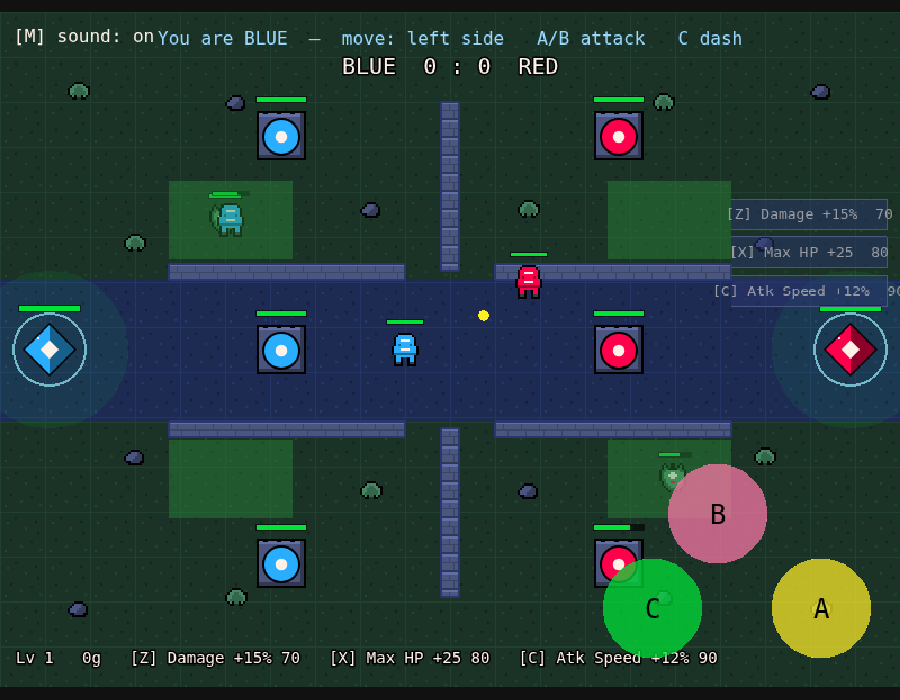
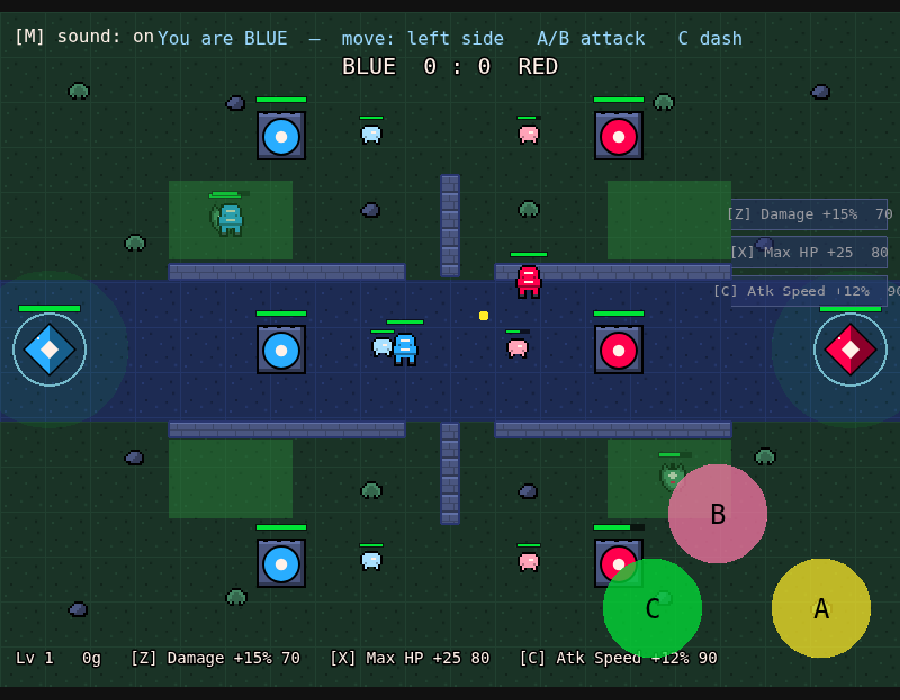
Three lanes (increment B): per-lane minion waves
The second half of the 1-lane -> 3-lane change. spawnWave now spawns a column of
minions in EVERY lane (top/mid/bot), each marching along its own lane row toward
the enemy base; minions carry a `lane`. A wave is perWave x 3 lanes x 2 teams.

To make the side lanes marchable, the two central pillars (WALLS[0]/[1]) are
shortened to sit BETWEEN the lane rows (y 145-235 and 365-455) so they only
choke the mid lane's edges and no longer block the top/bottom rows. Verified all
three lane rows are wall-clear full width, the tower/bush/camp spots stay clear,
and m13 still passes (it shoots at WALLS[0]'s computed mid-row, now y=190,
inside the shortened pillar). Confirmed a minion in each lane marches base to
base.

m17 updated for per-lane wave counts (perWave per lane, a column per lane, the
staggered spawn-ahead depth). ALL TESTS PASSED; live two-browser test passes;
build OK. README + HANDOVER + map screenshot show the full 3-lane layout
(minions + towers in top/mid/bot).

https://claude.ai/code/session_01MAXKRUpJFcKFAvV2b8xTXo

diff --git a/src/net/GameServer.js b/src/net/GameServer.js
@@ -520,24 +520,25 @@ export default class GameServer {
   // Spawn one wave for each team, just in front of its base, staggered across
   // the open center lane so they march through the gap between the pillars.
   spawnWave() {
-    const cy = GAME_HEIGHT / 2;
     for (const team of ["blue", "red"]) {
       const base = this.bases.get(team);
       if (!base || !base.alive) continue;
       const dir = team === "blue" ? 1 : -1; // blue pushes right, red pushes left
-      const startX = base.x + dir * MINION.spawnAhead;
-      for (let i = 0; i < MINION.perWave; i++) {
-        const laneY = cy + (i - (MINION.perWave - 1) / 2) * MINION.laneGap;
-        this.minions.push({
-          id: "m" + this.nextMinionId++,
-          team,
-          x: startX,
-          y: laneY,
-          laneY,
-          hp: MINION.maxHp,
-          alive: true,
-          cd: 0,
-        });
+      // A small column of minions in EACH lane, marching along that lane's row.
+      for (const ln of LANES) {
+        for (let i = 0; i < MINION.perWave; i++) {
+          this.minions.push({
+            id: "m" + this.nextMinionId++,
+            team,
+            lane: ln.id,
+            x: base.x + dir * (MINION.spawnAhead + i * 14), // staggered behind each other
+            y: ln.row,
+            laneY: ln.row, // the row this minion tries to hold while marching
+            hp: MINION.maxHp,
+            alive: true,
+            cd: 0,
+          });
+        }
       }
     }
   }

diff --git a/src/config.js b/src/config.js
@@ -348,9 +348,11 @@ export const KILLFEED = { ms: 6000, max: 5 };
 // the lane and the jungle. Keep WALLS[0]/[1] as the central pillars (the wall
 // tests and the minion center-corridor depend on them).
 export const WALLS = [
-  // Two central pillars on the mid-line, with a gap between them (the lane).
-  { x: 392, y: 80, w: 16, h: 150 }, // WALLS[0] — top pillar
-  { x: 392, y: 370, w: 16, h: 150 }, // WALLS[1] — bottom pillar
+  // Two central pillars flanking the mid lane's gap. Shortened so they sit
+  // BETWEEN the lane rows (top=110, mid=300, bot=490) and don't block the side
+  // lanes — they only choke the mid lane's edges.
+  { x: 392, y: 145, w: 16, h: 90 }, // WALLS[0] — upper pillar (between top & mid)
+  { x: 392, y: 365, w: 16, h: 90 }, // WALLS[1] — lower pillar (between mid & bot)
   // Top lane divider: left + right segments, leaving a central gap (x≈360–440)
   // and near-base gaps (x<150, x>650). Sits above the center corridor.
   { x: 150, y: 224, w: 210, h: 14 },

diff --git a/HANDOVER.md b/HANDOVER.md
@@ -94,8 +94,9 @@ respawnIn, powered, hidden`. Per-base adds `shielded`.
 | Movement/prediction | `step()` move loop | `predictLocal`, `sim.js` | `PLAYER_SPEED` |
 | Combat (basic/ability/dash) | `tryAttack`, `tryDash` | `doAction` | `COMBAT`, `DASH` |
 | Bases + win/shield | `damageBase`, `baseVulnerable` | `Base` (shield ring) | `BASE`, `BASE_POS` |
-| Lane minions | `stepMinions`, `spawnWave`, `moveMinion` | `syncMinions`, `Minion` | `MINION` |
-| Guard towers | `stepTowers`, `nearestEnemyUnit` | `syncTowers`, `Tower` | `TOWER`, `TOWER_POS` |
+| 3 lanes (top/mid/bot) | per-lane in `spawnWave`/`resetTowers` | lane geometry | `LANES`, `TOWER_X` |
+| Lane minions (per lane) | `stepMinions`, `spawnWave`, `moveMinion` | `syncMinions`, `Minion` | `MINION` |
+| Guard towers (6, array) | `stepTowers`, `nearestEnemyUnit`, `baseVulnerable` (all towers) | `syncTowers` (team+lane key), `Tower` | `TOWER`, `TOWER_X` |
 | Map pickups + power buff | `stepPickups`, `grantPickup` | `syncPickups` | `PICKUP`, `PICKUP_SPOTS` |
 | Healing fountain | `stepFountains` | `Base` fountain ring | `BASE.heal*` |
 | Jungle camps (neutral) | `stepCamps`, `damageCamp`, `hitCamp` | `syncCamps`, `Camp` | `CAMP`, `CAMP_SPOTS` |
@@ -129,9 +130,17 @@ respawnIn, powered, hidden`. Per-base adds `shielded`.
 - **Texture dimensions are load-bearing**: bases/towers/pickups size from config
   radii and feed hit detection. Keep a sprite's texture the same size when
   reskinning, or update the matching radius.
-- **Map invariants**: keep the center lane (y≈238–364) clear so minions march;
-  `WALLS[0]/[1]` are the central pillars that `m13.walls` and the minion corridor
-  depend on; `LANE_BAND` must match the divider walls; decor stays off-lane.
+- **Map invariants**: each `LANES` row (top=110, mid=300, bot=490) must stay
+  clear of walls full-width so minions march it (verify with a wall-overlap
+  script before moving a row). `WALLS[0]/[1]` are the two central pillars (now
+  shortened to sit BETWEEN the lanes) — `m13.walls` reads `WALLS[0]` and shoots
+  at its computed mid-row, so keep it a pillar at x≈392. `TOWER_X` spots and
+  `BUSH_ZONES` must stay wall-free; `LANE_BAND` (the jungle-floor band) is purely
+  cosmetic and independent of `LANES`.
+- **Towers are an ARRAY** `[{team,lane,...}]` (not a Map) — 3 per team. Use
+  `find(t=>t.team===x && t.lane===y)`, not `.get(team)`. `baseVulnerable(team)`
+  is true only when ALL of a team's towers are dead. Client keys tower sprites
+  by `team_lane`.
 
 ### Gotchas that have bitten us
 - Several systems are **armed only by `beginPlaying()`** (minion `nextWaveAt`,

diff --git a/README.md b/README.md
@@ -97,17 +97,17 @@ six heroes, each with its own sprite, health, and attack profile:
 
 You can change pick until the match starts.
 
-**Lane minions:** once a match starts, both sides periodically send out a small
-wave of AI minions that march down the middle toward the enemy base, fighting
-whatever they meet. They're weak on their own, but they soak up fire and chip
-the base — push alongside your wave to break through.
+**Three lanes:** the arena has **top, mid, and bottom** lanes. Once a match
+starts, both sides send a wave of AI minions down **every lane**, marching toward
+the enemy base and fighting whatever they meet. They're weak alone, but they soak
+fire and chip the base — push a lane alongside your wave to break through.
 
-**Guard towers:** each team has one defensive tower standing in the lane between
-its base and the center. A tower auto-zaps the nearest enemy in range (orange
-bolts), so diving in alone is dangerous — let your minions soak the tower while
-you whittle it down. **A base is shielded (a glowing ring) and can't be touched
-until its own tower is destroyed**, so the tower is the gate to victory: break
-the tower, then raze the exposed base to win.
+**Guard towers:** each team has a defensive tower on **every lane** (six in
+total) between its base and the center. A tower auto-zaps the nearest enemy in
+range (orange bolts), so diving in alone is dangerous — let your minions soak the
+tower while you whittle it down. **A base is shielded (a glowing ring) and can't
+be touched until ALL of its towers are destroyed**, so the towers are the gate to
+victory: break a team's towers, then raze the exposed base to win.
 
 **Map pickups:** orbs sit at fixed spots down the center of the arena (fair to
 both teams, but contested). Grab a green **heal** orb to restore HP, or an
